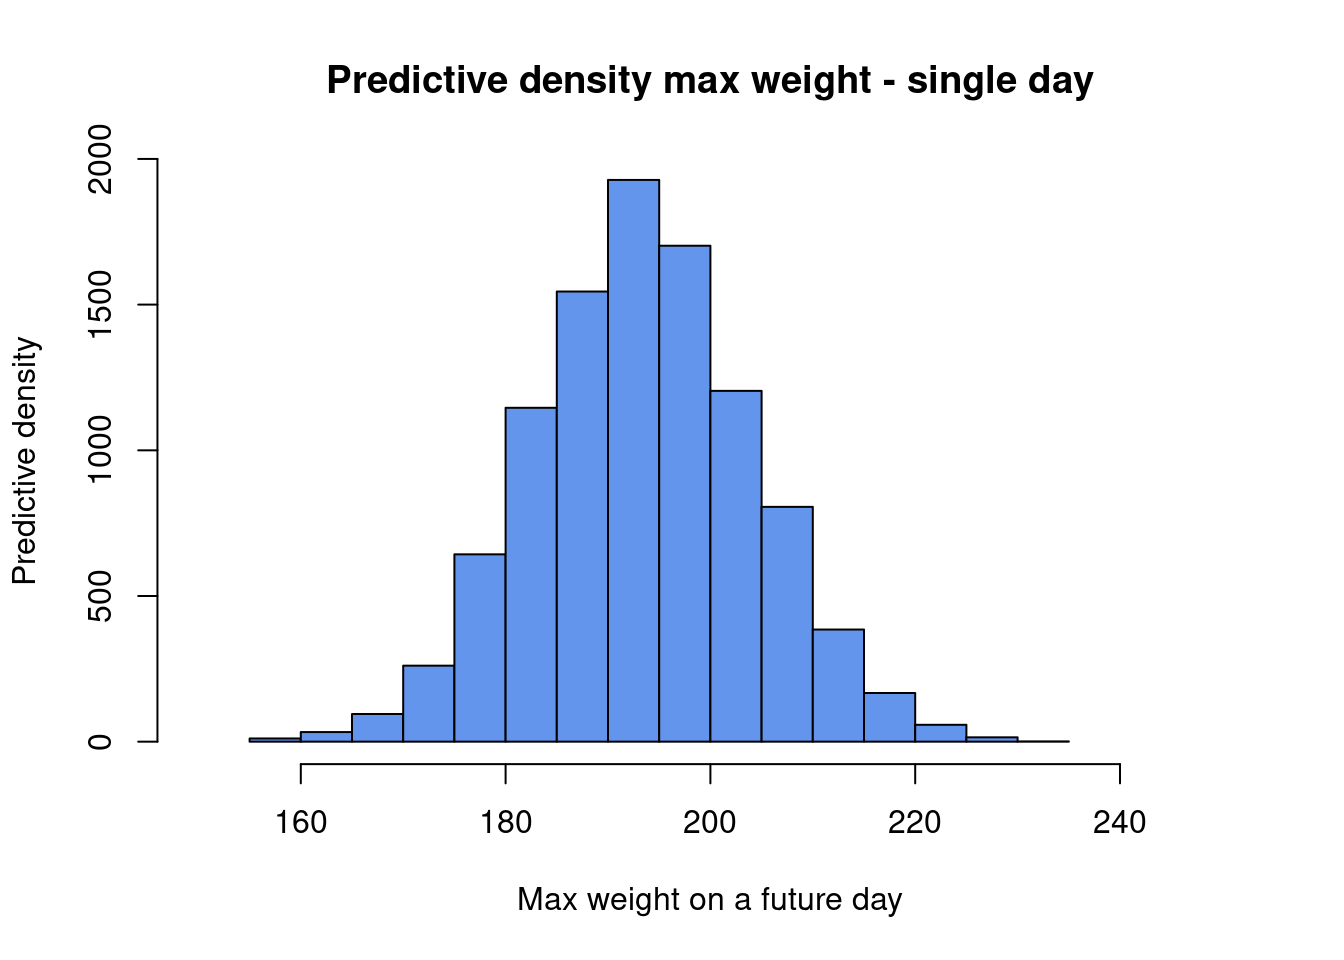
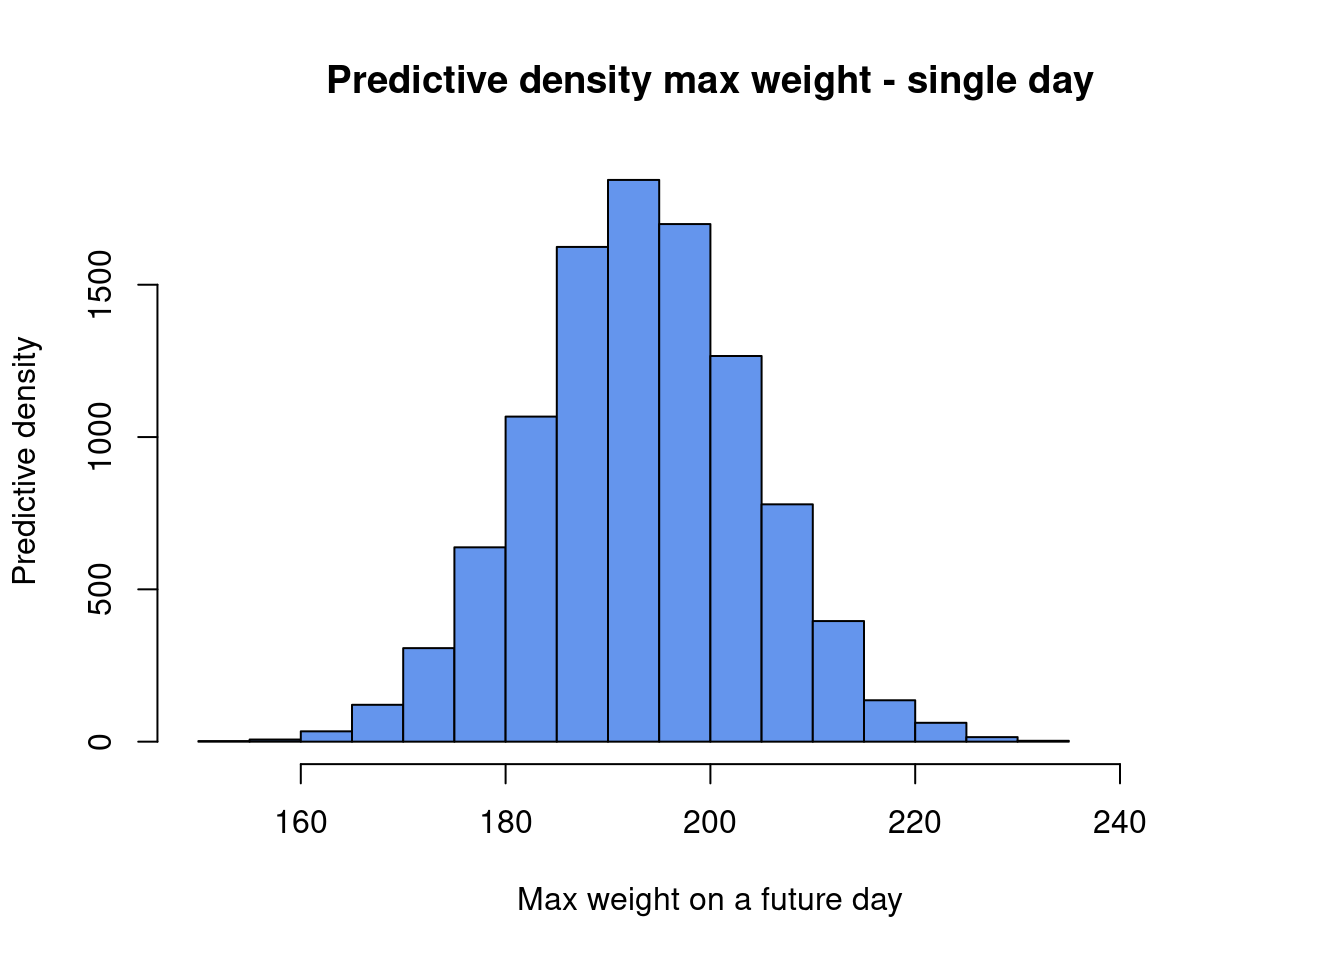
upd bridge

diff --git a/docs/exercises/ch6/bridgedecision.html b/docs/exercises/ch6/bridgedecision.html
@@ -417,7 +417,7 @@ Solution
 </div>
 </div>
 </div>
-<p><strong>b)</strong> Simulate from the predictive distribution of the maximal weight <span class="math inline">\(\tilde{Y}\)</span> over . Plot a histogram of the simulated values.</p>
+<p><strong>b)</strong> Simulate from the predictive distribution of the maximal weight <span class="math inline">\(\tilde{Y}\)</span> over all of the coming 365 days. Plot a histogram of the simulated values.</p>
 <div id="q:bridgedecision_b" class="callout callout-style-default callout-note no-icon callout-titled">
 <div class="callout-header d-flex align-content-center" data-bs-toggle="collapse" data-bs-target=".callout-2-contents" aria-controls="callout-2" aria-expanded="false" aria-label="Toggle callout">
 <div class="callout-icon-container">
@@ -498,7 +498,7 @@ EL(a) = E\left[L(c,\tilde{Y} )\right] &amp; = a\cdot\mathrm{Pr}(\text{bridge hol
 </div>
 </div>
 </div>
-<p>The optimal building cost 24.024 is marked out by a dotted vertical line.</p>
+<p>The optimal building cost 23.924 is marked out by a dotted vertical line.</p>
 </div>
 </div>
 </div>
